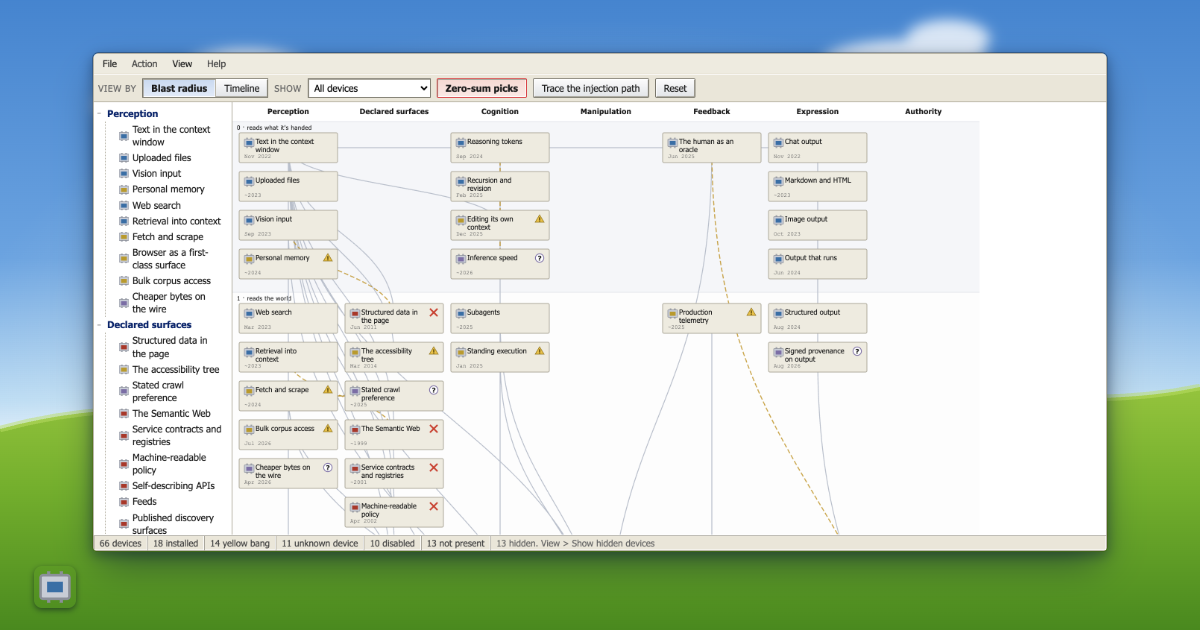
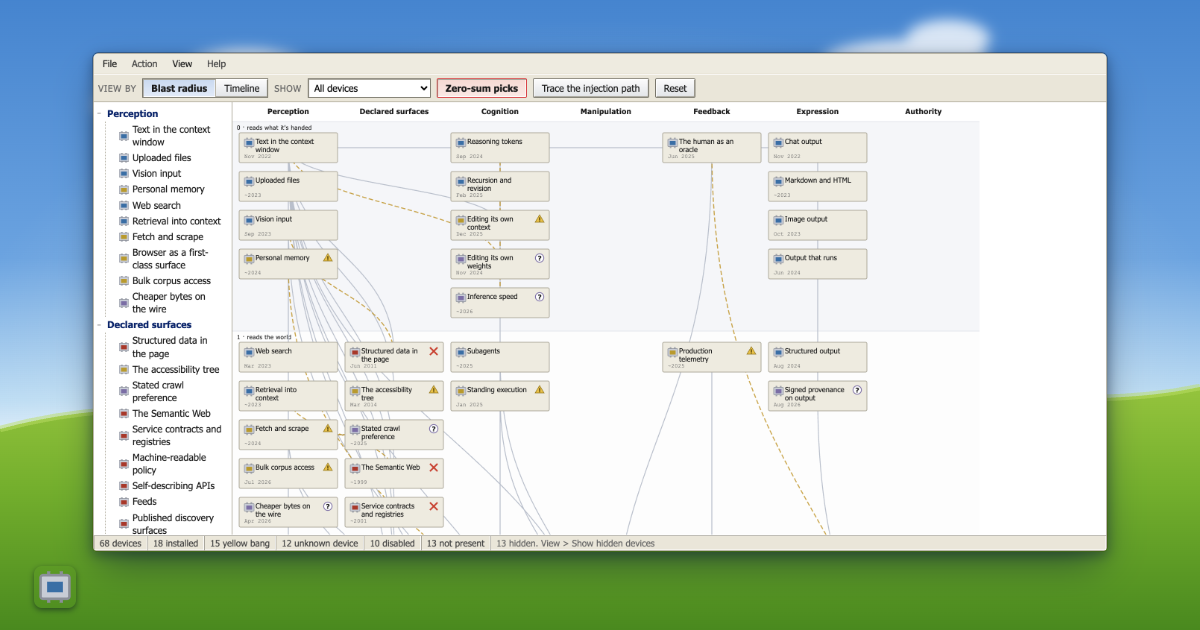
access: the two nodes for weights that move, and the one that keeps the lesson (#414)
* access: the two nodes for weights that move, and the one that keeps the lesson

/access argues that access substitutes for the generalization a model
doesn't have. Weight-level learning is the entry that argues back, and the
board had no node for it. It gets two, because two different things are
being asked for and only one of them is hard.

Editing its own weights (cognition, unknown device, Nov 2024) is the
temporary version: fit the parameters to the task in context, answer, throw
them away. It works, and nothing can reach it. An 8B model doing this hit
53.0% on the ARC public validation set, about six times its fine-tuned
baseline; Google has since built the update into two architectures, Titans
and Nested Learning's HOPE. All of it is an architecture choice a lab makes
before anyone sees the model, which is the unknown-device state exactly. It
sits beside Editing its own context and competes with the context window,
because long context is the branch the field spent its points on instead.

Weights that keep the lesson (feedback, yellow bang, Sep 2025) is the
durable version, and the surprise is that it shipped at an editor company
rather than a lab. Cursor's Tab model has trained on live accept and reject
signal since 12 Sep 2025, 400M requests a day on a 1.5 to 2 hour checkpoint
cycle, and the same loop reached Composer on 26 Mar 2026. The yellow bang
is what the loop returns: it closes at the population, so a rejected
[…]

diff --git a/www/access/index.html b/www/access/index.html
@@ -6,7 +6,7 @@
 <meta name="theme-color" content="#2D78BD">
 <link rel="preload" as="style" href="/luna.css">
 <title>Access · Device Manager for language models</title>
-<meta name="description" content="A skill tree for the flavors of access a language model has: what shipped and when, what it depends on, what got switched off, and what nobody has built. Sixty-six nodes across perception, cognition, manipulation, feedback, expression, and authority, dated to the month where the month is knowable, with a dated bet on every one that isn't finished.">
+<meta name="description" content="A skill tree for the flavors of access a language model has: what shipped and when, what it depends on, what got switched off, and what nobody has built. Sixty-eight nodes across perception, cognition, manipulation, feedback, expression, and authority, dated to the month where the month is knowable, with a dated bet on every one that isn't finished.">
 <link rel="canonical" href="https://aadhar.sh/access">
 <!-- Its own page favicon, the same chip the nodes draw. nav.js's setFavicon only
      fires for paths in the taskbar list and this route is deliberately unlisted, so
@@ -242,7 +242,7 @@ footer{margin-top:22px;padding-top:9px;border-top:1px solid var(--sh);font-size:
 <!-- ══ /FLAVORTEXT: lede ══════════════════════════════════════════════════ -->
 
 <!-- ══ FLAVORTEXT: how to read it ═════════════════════════════════════════ -->
-<p>Sixty-six nodes. Each one is a <b>flavor of access</b>, not a product, so a node outlives the vendor that currently occupies it. Products hang off the nodes as examples, and every node that isn't finished carries a dated bet.</p>
+<p>Sixty-eight nodes. Each one is a <b>flavor of access</b>, not a product, so a node outlives the vendor that currently occupies it. Products hang off the nodes as examples, and every node that isn't finished carries a dated bet.</p>
 <p>Five states, all of them Device Manager's own. <b>Installed</b> works and something depends on it. A <b>yellow bang</b> works badly enough to matter. An <b>unknown device</b> is present on the bus with no driver, which is where somebody is actively building. <b>Disabled</b> is the one worth reading twice: in Device Manager a red X never meant missing, it meant switched off, which is exactly what an access looks like after the ecosystem passed it over. And a device can be <b>not present</b> at all, describable but attached to nothing, which is where the speculation lives. Those are hidden until you ask for them, under <b>View</b>.</p>
 <p>Dates are month-level where the month is establishable and year-level where it isn't, marked with a <b>~</b>. I would rather show you a coarse date than a confident wrong one.</p>
 
@@ -306,6 +306,15 @@ footer{margin-top:22px;padding-top:9px;border-top:1px solid var(--sh);font-size:
 <p>That reframes every node on this board. Access isn't a convenience layer bolted onto intelligence. It's the substitute for the generalization the model doesn't have, which is why one log line beats a day of careful reasoning about what the bug probably is, and why <b>Feedback</b> is the most underbuilt branch here.</p>
 <!-- ══ /FLAVORTEXT: why access ════════════════════════════════════════════ -->
 
+<!-- ══ FLAVORTEXT: learning ══════════════════════════════════ -->
+<h3>The access that would make the rest of this board smaller</h3>
+<p>Every node here exists because the model keeps nothing that happens to it. The log, the failing test, the page, the production trace: all of that is access standing in for a lesson the weights never hold on to. Close that loop and a good deal of this board becomes optional, which makes weight-level learning the one entry worth arguing against the whole premise with. It gets two nodes, because two different things are being asked for and only one of them is hard.</p>
+<p><b>Editing its own weights</b> is the temporary version: fit the parameters to the task in front of you, use them, discard them. It works. An 8B model doing this scored <b>53.0%</b> on the ARC public validation set in Nov 2024, roughly six times its fine-tuned baseline, and 61.9% ensembled with program synthesis, which was the average human score. Google has built the same idea into two architectures since, Titans in Jan 2025 and Nested Learning's HOPE on 7 Nov 2025. None of it is something an agent can reach for, because it is an architecture choice a lab makes before anyone sees the model, and that is the unknown-device state exactly.</p>
+<p><b>Weights that keep the lesson</b> is the durable version, and the surprise is that it shipped at an editor company rather than a lab. Cursor's Tab model has trained on live accept and reject signal since <b>12 Sep 2025</b>, across 400 million requests a day, rolling a fresh checkpoint every 1.5 to 2 hours. The same loop reached Composer on <b>26 Mar 2026</b> on a five-hour cycle. The measured gains are small and real: 21% fewer suggestions at a 28% higher accept rate on Tab, and on Composer 2.28% more agent edits surviving in the codebase against 3.13% fewer dissatisfied follow-ups.</p>
+<p>Read what that loop returns, though, because it closes at the population. Your rejected completion improves the model everyone gets five hours later and teaches your agent nothing about your codebase, so the thing every session starts without is still the thing nobody ships. That is why it carries a yellow bang instead of sitting in the installed column, and why <b>Autobiographical continuity</b> is still a phantom beside it. The industry's answer to a model that cannot keep a lesson has been to put the lesson in the context window and pay for it again every session, which is why <b>Personal memory</b> is the node it competes with rather than the node it depends on.</p>
+<p>The loop stays open for an ordinary reason, and gradient descent is not it. A frozen checkpoint is what makes an eval mean something, a safety case hold, and a rollback exist, and weights that move in deployment have none of the three. So continual learning sits in the same category as <b>Release authority</b>: withheld on purpose, by people who could ship it, which puts it on the trust axis rather than the research one.</p>
+<!-- ══ /FLAVORTEXT: learning ════════════════════════════════ -->
+
 <!-- ══ FLAVORTEXT: trust ═════════════════════════════════════════════════ -->
 <h3>Trust is the gating dependency</h3>
 <p>The vertical axis is blast radius, from reading what it's handed to moving atoms. Every rung up buys capability and spends trust, and that's why the top of the board is thin: the blockers up there aren't engineering, they're authorization. Secrets, identity, and money are one dependency chain, and Cloudflare wiring agentic commerce onto the same Web Bot Auth it uses to sort crawlers is that chain showing up as a roadmap.</p>
@@ -313,8 +322,8 @@ footer{margin-top:22px;padding-top:9px;border-top:1px solid var(--sh);font-size:
 
 <!-- ══ FLAVORTEXT: gaps + speculation ════════════════════════════════════ -->
 <h3>The gaps are the interesting part</h3>
-<p><span id="tally-gaps">Fourteen devices carry a yellow bang, eleven have no driver, ten are switched off, and thirteen are not present at all.</span> A few are genuinely hard. Most are unbuilt because the thing they'd need is a standard, an index, or somebody's permission, and no single vendor can ship any of the three alone.</p>
-<p>The two states people skip are the ones I'd look at first, and together they are 23 of the 66 devices here. That weighting is deliberate. The installed column is where the conference talks are; the other two are where the information is.</p>
+<p><span id="tally-gaps">Fifteen devices carry a yellow bang, twelve have no driver, ten are switched off, and thirteen are not present at all.</span> A few are genuinely hard. Most are unbuilt because the thing they'd need is a standard, an index, or somebody's permission, and no single vendor can ship any of the three alone.</p>
+<p>The two states people skip are the ones I'd look at first, and together they are 23 of the 68 devices here. That weighting is deliberate. The installed column is where the conference talks are; the other two are where the information is.</p>
 
 <h3>Switched off: ten answers nobody wanted</h3>
 <p><b>Disabled</b> means the ecosystem built the thing and then declined to use it. Ten nodes are in that state and the dates are the point: 1993, 1999, 2001, 2002, 2004, 2005, 2011, 2011, 2014, 2024. Every current complaint about agent access has a corpse behind it.</p>
@@ -345,7 +354,7 @@ footer{margin-top:22px;padding-top:9px;border-top:1px solid var(--sh);font-size:
 <p>The dates on this board used to come from announcements, which is a biased sample: an announcement is a thing somebody wanted you to notice. So the pass behind this revision read the boring surface instead, entry by entry, across every lab that keeps a public log. Anthropic's weekly Claude Code digest, OpenAI's API changelog and its Codex notes, Google's Gemini API release notes, and for the open-weight labs the model cards, which is where Moonshot, DeepSeek, Qwen, Mistral and Z.ai make their agent claims because none of them ships a platform changelog to make them in.</p>
 <p>Three findings, and none of them is a model.</p>
 <p><b>The 2026 additions cluster on three nodes, and all three make an existing access cheaper rather than granting a new one.</b> Permission stopped being a click and became a classifier. The context window stopped being a wall and became a budget the agent rewrites. Speed stopped being a property of the model and became a line item you buy at 2x the price for 2.5x the rate. Two of those were not on this board before this pass and are now, which is the honest cost of having drawn it from announcements the first time.</p>
-<p><b>Feedback got almost nothing, again.</b> Across roughly a year of entries, the branch this page already called the most underbuilt picked up an eval product that is being switched off, two dashboards that watch the vendor's agents rather than yours, and one genuinely good tool that streams a running process into the conversation. That is it. I would rather have found the argument wrong; a year of concentrated vendor attention going almost everywhere else is stronger evidence for it than the argument was.</p>
+<p><b>Feedback got almost nothing, again.</b> Across roughly a year of entries, the branch this page already called the most underbuilt picked up an eval product that is being switched off, two dashboards that watch the vendor's agents rather than yours, and one genuinely good tool that streams a running process into the conversation. That is it. The one closed feedback loop of the period turned up outside the sample entirely, at an editor company reading its own traffic rather than in a lab's changelog, and it is on the board now as <b>Weights that keep the lesson</b>. I would rather have found the argument wrong; a year of concentrated vendor attention going almost everywhere else is stronger evidence for it than the argument was.</p>
 <p><b>And the platform layer is churning faster than the access layer under it.</b> In one quarter: Meta shut its Llama API on 6 Jul 2026, Google retired Gemini CLI on 18 Jun 2026, and OpenAI removes the Assistants API, its first agent-shaped product, on 26 Aug 2026, alongside its visual agent builder and its eval platform on 30 Nov. Not one flavor of access on this board went with them. That is the premise of the whole page getting demonstrated three times in ninety days, and it is the reason the nodes are named for what they reach rather than for who currently sells it.</p>
 <!-- ══ /FLAVORTEXT: reading the release notes ════════════════════════════ -->
 
@@ -510,6 +519,12 @@ footer{margin-top:22px;padding-top:9px;border-top:1px solid var(--sh);font-size:
     <td>The context window has been the one hard wall on this board since Nov 2022, and what arrived was not a bigger buffer but write access to the buffer. Compaction lets a run rewrite its own history and keep going, which turns the wall into a budget the agent spends. Every long-horizon agent that works at all works because of this, and it ships in release notes as a maintenance item. <b>In the way:</b> the agent chooses what to lose, and it loses it silently. Nothing separates the run that kept the constraint from the run that compacted it away, so the failure surfaces later wearing the costume of a model that simply got worse at the task. <b>Bet:</b> compaction becomes the layer people tune the way they tuned retrieval in 2023, and the version that wins is explicit and inspectable rather than automatic. The tell will be the first product that shows you what it dropped. <b>Costs:</b> a summary is a claim about what mattered, written by the thing that is about to act on it.</td>
     <td class="ex">OpenAI's client-side <code>/responses/compact</code>, 11 Dec 2025; server-side compaction, 10 Feb 2026; native compaction in GPT-5.4, 5 Mar 2026; Claude Code's Summarize up to here, May 2026; Codex remote conversation compaction, Aug 2026</td></tr>
 
+  <tr data-id="ttt" data-rivals="ctx" data-branch="cognition" data-tier="0" data-seen="2024-11" data-status="frontier" data-deps="cot" data-flags="" data-confidence="medium">
+    <th scope="row">Editing its own weights</th>
+    <td class="st st-frontier">unknown device</td><td>reads what it's handed</td><td class="seen">Nov 2024</td><td>reasoning tokens</td>
+    <td>Reasoning tokens turned inference-time compute into a budget. This spends that budget on the parameters instead of the prose: fit the weights to the task sitting in the context window, answer with them, throw them away. It is the sibling of <b>Editing its own context</b> and the sharper of the two, because a summary is a claim about what mattered and a gradient step is the model actually changing its mind. <b>In the way:</b> it works, and nothing can reach it. Test-time training is a decision a lab makes about an architecture before the model ships, so there is no knob, no API, and no way for an agent mid-task to decide this problem is worth a gradient step. <b>Bet:</b> this arrives dressed as a context-window feature rather than a training one, because that is the shape the market already buys. The tell is a vendor selling "it learns your codebase during the session" with no fine-tuning job anywhere in the product. <b>Costs:</b> weights fitted to the input are weights fitted to whatever the input contained, and nothing in the procedure separates a task demonstration from a page that wanted to be learned.</td>
+    <td class="ex">Test-time training on ARC, 11 Nov 2024: an 8B model at 53.0% on the public validation set, about six times its fine-tuned baseline, and 61.9% ensembled with program synthesis, which was the average human score. Google builds the update into the architecture twice, in Titans, Jan 2025, and in Nested Learning's HOPE, 7 Nov 2025. SEAL, Jun 2025, has a model write its own finetuning data and runs into catastrophic forgetting doing it</td></tr>
+
   <tr data-id="subagents" data-branch="cognition" data-tier="1" data-seen="2025" data-status="shipped" data-deps="recur,tools" data-flags="">
     <th scope="row">Subagents</th>
     <td class="st st-shipped">installed</td><td>reads the world</td><td class="seen">~2025</td><td>recursion and revision, tool calls</td>
@@ -643,6 +658,12 @@ footer{margin-top:22px;padding-top:9px;border-top:1px solid var(--sh);font-size:
     <td class="st st-partial">yellow bang</td><td>changes someone else's</td><td class="seen">~2026</td><td>tests and logs in the loop</td>
     <td>First and second-order effects from causes, in practice rather than in theory. This is what training runs on, and it's the sharpest asymmetry on the board: labs have rich environments and the person with the actual codebase has almost none. <b>In the way:</b> an environment is a product nobody sells you for your own system, so the people with the best ground truth can't feed it back. <b>Bet:</b> environments-as-a-service is the gap most worth building into, and the first credible version is bought rather than built, by a lab that wants the ground truth more than the revenue. The first attempt at selling one has already been withdrawn, which dates the bet rather than refuting it: the buyer for an eval product was never the lab's customers, it was the lab.</td>
     <td class="ex">RLVR, verifier environments, GRPO training loops; hosted agent evals with traces, datasets and prompt optimisation, 6 Oct 2025, scoring third-party models too. That one is worth watching to the end: it was deprecated on 3 Jun 2026, goes read-only on 31 Oct 2026 and shuts on 30 Nov 2026, a thirteen-month life, with the suggested replacement an open-source project rather than another product</td></tr>
+
+  <tr data-id="learn" data-rivals="pmem" data-branch="feedback" data-tier="3" data-seen="2025-09" data-status="partial" data-deps="telemetry,evals" data-flags="authority" data-confidence="medium">
+    <th scope="row">Weights that keep the lesson</th>
+    <td class="st st-partial">yellow bang</td><td>changes someone else's</td><td class="seen">Sep 2025</td><td>production telemetry, eval and RL environments</td>
+    <td>Every other node in this branch delivers a signal into the context window, where the end of the run erases it. This is the one that writes it somewhere durable, and its absence is most of why the branch reads as underbuilt: the feedback arrives and has nowhere to land. It ships, on the vendor's own traffic, at an editor company rather than a lab. <b>In the way:</b> the loop closes at the population rather than at your agent. A rejected completion improves the model everyone gets a few hours later and teaches your instance nothing about your codebase, so the next session still opens as a competent stranger. <b>Bet:</b> the per-deployment version stays unshipped longer than the research suggests, and the blocker is certification rather than gradients. A frozen checkpoint is what makes an eval mean something, a safety case hold, and a rollback exist, and a model that rewrites itself in production has none of the three. Expect the first credible version to be an adapter the customer owns and can roll back, sold as a fine-tune with a shorter turnaround, rather than anything described as learning. <b>Costs:</b> a path from deployment into the weights is an injection path with a memory. Untrusted text that reaches the context window stops being this run's problem and becomes the next checkpoint's.</td>
+    <td class="ex">Cursor's Tab model trained on live accept and reject signal from 12 Sep 2025, 400M requests a day on a 1.5 to 2 hour checkpoint cycle, for 21% fewer suggestions at a 28% higher accept rate; the same real-time loop reaching Composer on 26 Mar 2026 on a five-hour cycle, for 2.28% more agent edits surviving in the codebase and 3.13% fewer dissatisfied follow-ups. Reinforcement fine-tuning and LoRA adapters are the offline form, held away from the running agent by a batch job and an ML team</td></tr>
 
   <tr data-id="correctness" data-branch="feedback" data-tier="3" data-seen="2026" data-status="frontier" data-deps="codeexec,tests" data-flags="" data-confidence="low">
     <th scope="row">Correctness, formally</th>
@@ -786,6 +807,8 @@ footer{margin-top:22px;padding-top:9px;border-top:1px solid var(--sh);font-size:
   <li><small><a href="https://news.ycombinator.com/item?id=48895409" rel="noopener external">This Hacker News thread</a> for detection pricing, the bypass claim, and the argument for routing agents rather than blocking them.</small></li>
   <li><small><a href="https://www.emergentmind.com/topics/formarl" rel="noopener external">FormaRL</a> and the surrounding autoformalization work for specification hacking.</small></li>
   <li><small>The vendor logs, read entry by entry rather than by announcement, which is where most of the 2026 dates above came from: <a href="https://code.claude.com/docs/en/whats-new" rel="noopener external">the Claude Code weekly digest</a> for auto mode, Routines, the Monitor tool, background subagents and the in-app browser; <a href="https://developers.openai.com/api/docs/changelog" rel="noopener external">the OpenAI API changelog</a> for compaction, tool search, the hosted shell tool, workload identity federation, the fast tier and content provenance; <a href="https://learn.chatgpt.com/docs/changelog" rel="noopener external">the Codex changelog</a> for portable agent plugins, <code>--approve-for-me</code> and MCP 2026-07-28; and <a href="https://ai.google.dev/gemini-api/docs/changelog" rel="noopener external">the Gemini API release notes</a> for Managed Agents, the computer-use tool, webhooks and Robotics ER 2.</small></li>
+  <li><small><a href="https://cursor.com/blog/tab-rl" rel="noopener external">Improving Cursor Tab with online RL</a> (12 Sep 2025) for the 400M requests a day, the 1.5 to 2 hour checkpoint cycle and the 21%/28% figures, and <a href="https://cursor.com/blog/real-time-rl-for-composer" rel="noopener external">Improving Composer through real-time RL</a> (26 Mar 2026) for the five-hour cycle and the three A/B numbers. Both say plainly that the training is on aggregated production traffic, which is what makes this a population-level loop rather than a per-customer one.</small></li>
+  <li><small><a href="https://arxiv.org/abs/2411.07279" rel="noopener external">The Surprising Effectiveness of Test-Time Training</a> (11 Nov 2024) for the 8B model at 53.0% and the 61.9% ensemble; <a href="https://research.google/blog/introducing-nested-learning-a-new-ml-paradigm-for-continual-learning/" rel="noopener external">Nested Learning</a> (7 Nov 2025) for HOPE and its Titans lineage; <a href="https://arxiv.org/abs/2506.10943" rel="noopener external">Self-Adapting Language Models</a> (Jun 2025) for self-generated finetuning data, and for reporting its own catastrophic forgetting rather than burying it.</small></li>
   <li><small><a href="https://developers.openai.com/api/docs/deprecations" rel="noopener external">The OpenAI deprecations page</a> for the Assistants API removal on 26 Aug 2026 and the Agent Builder and Evals shutdowns on 30 Nov 2026; <a href="https://llama.developer.meta.com/docs/llama-api-deprecation/" rel="noopener external">Meta's Llama API sunset</a> on 6 Jul 2026; <a href="https://developers.googleblog.com/an-important-update-transitioning-gemini-cli-to-antigravity-cli/" rel="noopener external">the Gemini CLI to Antigravity CLI transition</a> and its 18 Jun 2026 end of life. Three vendors retiring an agent platform in one quarter, with no node on this board going with them.</small></li>
   <li><small><a href="https://www.anthropic.com/news/donating-the-model-context-protocol-and-establishing-of-the-agentic-ai-foundation" rel="noopener external">Donating MCP to the Agentic AI Foundation</a> (9 Dec 2025) for the runtime-before-committee ordering, the 10,000 public servers, and the co-founder list.</small></li>
   <li><small>Model cards rather than changelogs for the open-weight labs, because Moonshot, DeepSeek, Qwen, Mistral and Z.ai make their agent claims there: Kimi K2.6's 300 subagents across 4,000 coordinated steps is the sharpest of them, and it is a claim on a card rather than a measured number, which is exactly how it is cited above.</small></li>

diff --git a/CLAUDE.md b/CLAUDE.md
@@ -816,7 +816,7 @@ Single-page personal site at `aadhar.sh`. A Cloudflare Worker with static assets
 | `www/sitemap.xml`, `robots.txt` | Standard SEO files. robots.txt explicitly allows AadharshBot. |
 | `www/.well-known/http-message-signatures-directory` | JWKS for AadharshBot's Ed25519 public key (Web Bot Auth IETF draft). |
 | `www/images/` + `www/i/` | `images/` holds the photo DATA surfaces: `metadata.json` (the EXIF RECORD, long field names + the Fuji recipe card), `exif.json` (the tooltip's TEXT tier: every photo's short-key EXIF in one 2.6KB-brotli file, warmed once on idle because the homepage draws a fresh random 12 of 158 per request and a per-slot warm-up was cold nearly every visit), `meta/<stem>.json` (per-photo EXIF plus the four 64-bin histogram channels — the BARS tier, fetched only on the hover that needs them, and the self-healing fallback for a stem missing from a cached `exif.json`), `alt.json` (AI captions), `hashes.json` (stem to hash8 map). The pixel tiers (600px AVIF+JPG squares + 400px mobile AVIF) live in `i/` under content-hashed names, 474 files for 158 photos. |
-| `www/og/` | Pre-baked 1200x630 OG/Twitter cards, one per garage + lwe page (`<section>-<name>.png`): the page's live demo floated on the Bliss desktop with an XP dock naming the route, so a shared link unfurls as the interaction, not a bare title. Wired via `og:image`/`twitter:card` in each page's `<head>` (edge-direct static pages can't be worker-injected). Built by `scripts/gen-og-cards.mjs` (playwright-core → Chrome, captures production for live data); meta added by `scripts/inject-og-meta.mjs`. Regen recipe in MAINTENANCE.md. Cached 30d, deploy purges the edge. |
+| `www/og/` | Pre-baked 1200x630 OG/Twitter cards, one per garage + lwe page (`<section>-<name>.png`): the page's live demo floated on the Bliss desktop under the page's own favicon as a brand stamp, so a shared link unfurls as the interaction rather than a bare title. **There is no route label on the card**, and this row said there was until 2026-08-15: the generator's own header comment has described a "translucent XP dock naming the route" since #55 while the card template has never rendered one, and the claim was copied here. Wired via `og:image`/`twitter:card` in each page's `<head>` (edge-direct static pages can't be worker-injected). Built by `www/scripts/gen-og-cards.mjs` (playwright-core → Chrome, captures production for live data); meta added by `www/scripts/inject-og-meta.mjs`. **Both paths read `scripts/` here until the same date**, which is the split the layout table above draws and costs a `No such file` to anyone following this row. Regen recipe in MAINTENANCE.md. Cached 30d, deploy purges the edge. |
 | `www/scripts/` | Photo-pipeline + asset scripts (see below). Beyond the core pipeline (`add-photos.sh`, `extract-photo-metadata.sh`, `check-photo-pipeline.mjs`, `zenc/` the JPEG encoder crate): `add-car-photo.sh` (one resto-mod reference photo into the dual AVIF+JPG pair the car-link tooltips expect, output `www/cars/<stem>.{avif,jpg}`, no EXIF/R2); `gen-alt-text.py` (AI alt text for every grid photo, writes `www/images/alt.json` `{stem: alt}`, resumable; run by `add-photos.sh` phase 4 — posts the committed `i/` thumbnail bytes to Workers AI when `CLOUDFLARE_API_TOKEN` is set so a brand-new photo captions pre-deploy, else falls back to the cf-garage `/garage/cf/caption` endpoint by stem, which only sees deployed photos); `gen-encoding-samples.sh` (regenerates the color sample set for the `/garage/encoding` study through every encoder, prints byte counts + bytes-per-pixel); `reencode-thumbnails.sh` (re-encodes all published grid thumbnails as pre-cropped center squares from the canonical source folder, two square tiers); `gen-pixel-peeper.py` (the one remaining Pillow consumer, a one-off generator for the /pixel-peeper comparison frames; NOT part of add-photos.sh). The four 64-bin RGB/luminance channels are baked by `zenc histogram`, inside the encoder crate, since 2026-08-14. |
 
 ### The photo pipeline
